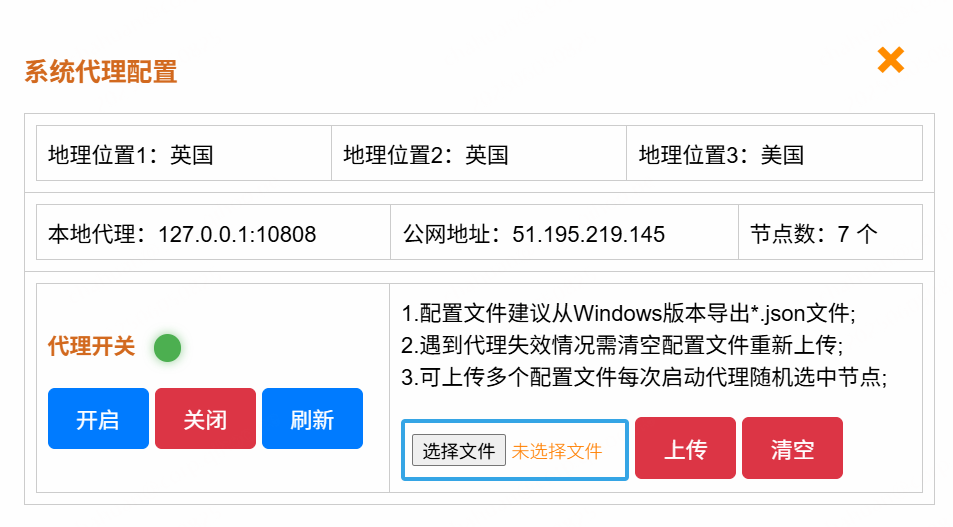
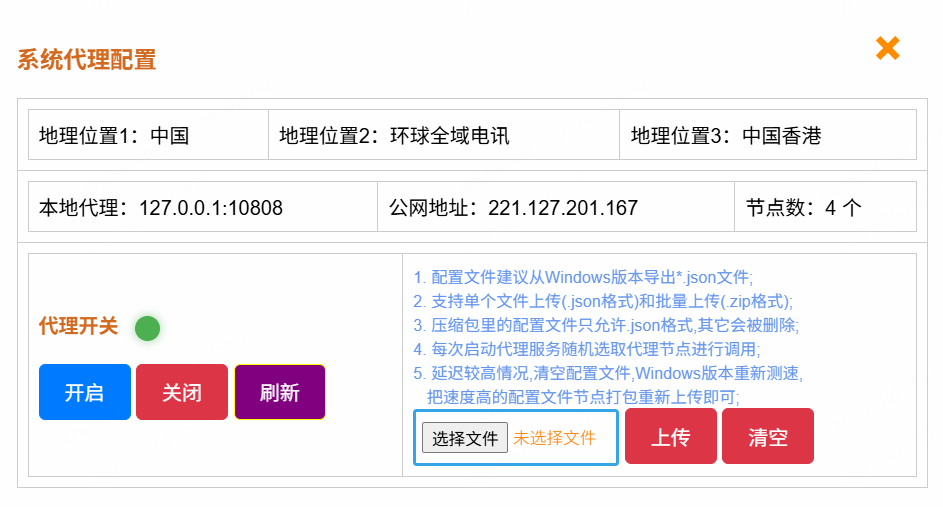
系统优化

Changed region(s): [[0.0, 0.2367, 0.9841, 0.9763], [0.0, 0.0888, 0.1845, 0.1775], [0.9226, 0.0592, 0.9533, 0.1479]]

diff --git a/templates/tanchuang.html b/templates/tanchuang.html
@@ -975,13 +975,16 @@
                                 <button class="button edit-button" onclick="opensystemproxycontrolfunc()">开启</button>
                                 <button class="button delete-button"
                                     onclick="stopdownsystemproxycontrolfunc()">关闭</button>
-                                <button class="button edit-button" onclick="opensystemproxyconffunc()">刷新</button>
+                                <button class="button delete1-button" onclick="opensystemproxyconffunc()">刷新</button>
                             </td>
                             <td>
-                                <span>1.配置文件建议从Windows版本导出*.json文件;</span><br>
-                                <span>2.遇到代理失效情况需清空配置文件重新上传;</span><br>
-                                <span>3.可上传多个配置文件每次启动代理随机选中节点;</span><br>
-                                <br>
+                                <div style="font-size: small; color: cornflowerblue">
+                                <span>1. 配置文件建议从Windows版本导出*.json文件;</span><br>
+                                <span>2. 支持单个文件上传(.json格式)和批量上传(.zip格式);</span><br>
+                                <span>3. 压缩包里的配置文件只允许.json格式,其它会被删除;</span><br>
+                                <span>4. 每次启动代理服务随机选取代理节点进行调用;</span><br>
+                                <span>5. 延迟较高情况,清空配置文件,Windows版本重新测速,<br>&nbsp;&nbsp;&nbsp;把速度高的配置文件节点打包重新上传即可;</span><br>
+                                </div>
                                 <input type="file" class="configfileupload" id="fileuploadid1">
                                 <button class="button delete-button" onclick="proxyfileuploadfunc()">上传</button>
                                 <button class="button delete-button" onclick="deletesystemproxyfilefunc()">清空</button><br>

diff --git a/scan_main_web.py b/scan_main_web.py
@@ -6704,6 +6704,7 @@ def stopdownsystemproxyconf():
 
 
 # 上传系统代理配置文件
+'''
 @app.route('/proxyconfigfileupload/', methods=['POST'])
 def proxyconfigfileupload():
     user = session.get('username')
@@ -6728,7 +6729,50 @@ def proxyconfigfileupload():
             return jsonify({'success': False, 'message': f'文件保存失败：{str(e)}'})
     else:
         return render_template('login.html')
-    
+'''  
+
+@app.route('/proxyconfigfileupload/', methods=['POST'])
+def proxyconfigfileupload():
+    user = session.get('username')
+    if str(user) == main_username:
+        # 获取上传的文件
+        file = request.files.get('file')
+        if not file:
+            return jsonify({'success': False, 'message': '未上传文件'})
+        
+        # 后端校验文件上传格式只能为json格式
+        file_extension = os.path.splitext(file.filename)[1].lower()
+        if file_extension not in ['.json','.zip']:
+            return jsonify({'success': False, 'message': '禁止上传'+file_extension+'格式，仅支持.json和.zip格式'})
+        else:
+            # 上传文件类型为.json
+            if file_extension == '.json':
+                # 生成随机文件名
+                random_filename = str(uuid.uuid4()) + os.path.splitext(file.filename)[1]
+                print(random_filename)
+                # 保存文件到指定目录，/usr/local/etc/v2ray为v2ray配置文件目录，可存在多个文件，每次启动前随机选中一个
+                try:
+                    file.save(f'/usr/local/etc/v2ray/{random_filename}')
+                    return jsonify({'success': True, 'message': '文件上传成功'})
+                except Exception as e:
+                    return jsonify({'success': False, 'message': f'文件保存失败：{str(e)}'})
+            elif file_extension == '.zip':
+                # 生成随机文件名
+                random_filename = str(uuid.uuid4()) + os.path.splitext(file.filename)[1]
+                
+                # 保存文件到指定目录，/usr/local/etc/v2ray为v2ray配置文件目录，可存在多个文件，每次启动前随机选中一个
+                try:
+                    file.save(f'/usr/local/etc/v2ray/{random_filename}')
+                    os.popen('bash /TIP/info_scan/finger.sh file_zip_oper')
+                    
+                    return jsonify({'success': True, 'message': '文件上传成功'})
+                except Exception as e:
+                    return jsonify({'success': False, 'message': f'文件保存失败：{str(e)}'})
+        
+    else:
+        return render_template('login.html')
+
+
 
 
 # 删除系统代理配置文件

diff --git a/basic.py b/basic.py
@@ -61,6 +61,8 @@ from selenium.webdriver.support import expected_conditions as EC
 from selenium.webdriver.chrome.options import Options
 from selenium.common.exceptions import TimeoutException
 
+import uuid
+
 
 
 
@@ -3946,6 +3948,24 @@ def get_ip_proxy_location_yh_lib(part):
         ip_location_list.append(line)
     return ip_location_list
 
+# 文件UUID重命名
+def filerename_lib():
+    directory = "/usr/local/etc/v2ray"
+    for root, dirs, files in os.walk(directory):
+        for file in files:
+            # 文件的完整路径
+            file_path = os.path.join(root, file)
+            # 分离文件名和扩展名
+            name, ext = os.path.splitext(file)
+            
+            # 生成新的 UUID 文件名（保留原扩展名）
+            new_name = str(uuid.uuid4()) + ext
+            new_path = os.path.join(root, new_name)
+           
+            # 重命名文件
+            os.rename(file_path, new_path)
+            print("重命名成功")
+
 
 
 
@@ -3971,10 +3991,8 @@ if __name__ == "__main__":
         elif func_name == 'withdrawiplocation_lib':
             withdrawiplocation_lib()
 
-        # 测试使用
-        elif func_name == 'get_ip_proxy_location_yh_lib':
-            c = get_ip_proxy_location_yh_lib()
-            print(c)
+        elif func_name == 'filerename_lib':
+            filerename_lib()
         else:
             print("Invalid function number")
     else:
